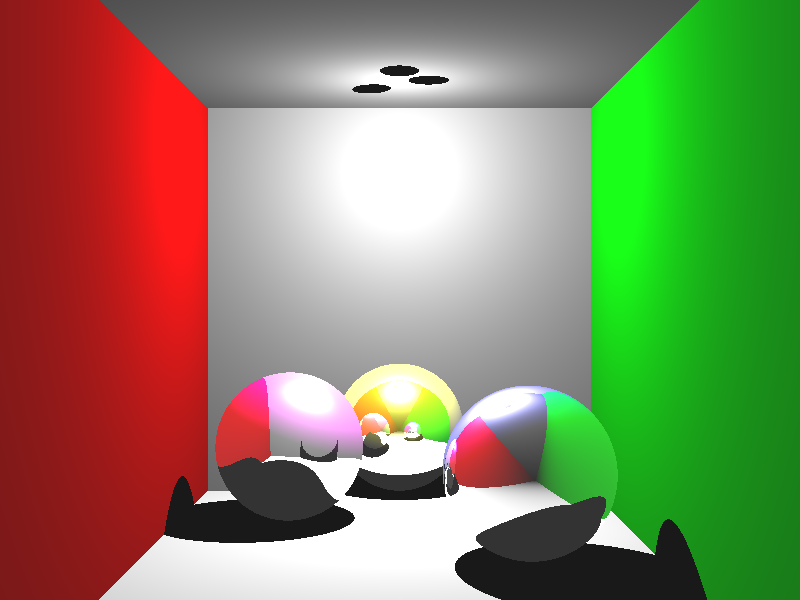
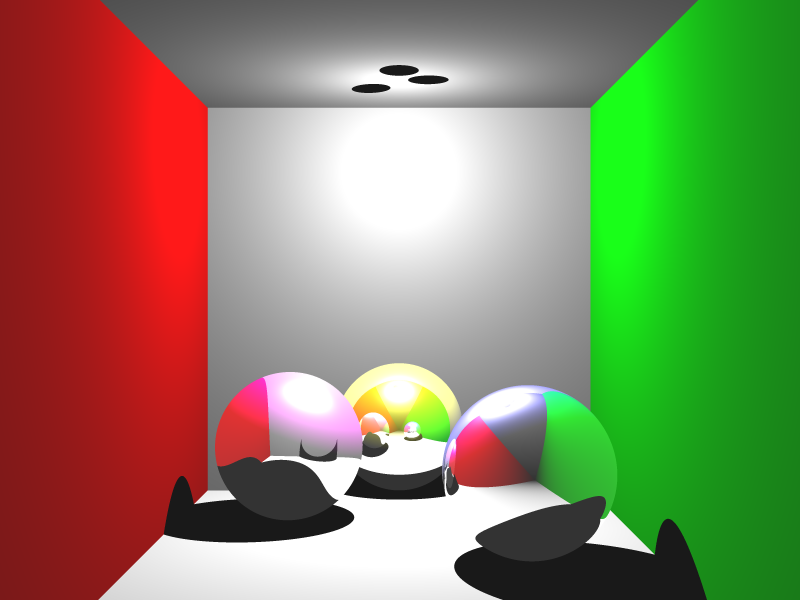
Realised AntiAliasing

Changed region(s): [[0.5312, 0.75, 0.5625, 0.81], [0.5, 0.69, 0.5312, 0.72]]

diff --git a/VCG_Raytracer/src/raytracer/Raytracer.java b/VCG_Raytracer/src/raytracer/Raytracer.java
@@ -27,6 +27,11 @@ import java.util.ArrayList;
 
 public class Raytracer {
 
+    public static int ANTI_ALIASING_LOW = 2;
+    public static int ANTI_ALIASING_MEDIUM = 4;
+    public static int ANTI_ALIASING_HIGH = 8;
+    public static int ANTI_ALIASING_INSANE = 16;
+
     private BufferedImage mBufferedImage;
     private ArrayList<Shape> mShapeList;
     private ArrayList<Light> mLightList;
@@ -34,11 +39,13 @@ public class Raytracer {
     private Window mRenderWindow;
 
     private int mMaxRecursions;
+    private float mAntiAliasingFactor;
+    private float mAntiAliasingCounter;
 
     private RgbColor mBackgroundColor;
     private RgbColor mAmbientLight;
 
-    public Raytracer(Scene scene, Window renderWindow, int recursions, RgbColor backColor, RgbColor ambientLight){
+    public Raytracer(Scene scene, Window renderWindow, int recursions, RgbColor backColor, RgbColor ambientLight, int antiAliasingSamples){
         Log.print(this, "Init");
         mMaxRecursions = recursions;
         mBufferedImage = renderWindow.getBufferedImage();
@@ -48,23 +55,41 @@ public class Raytracer {
         mRenderWindow = renderWindow;
         mShapeList = scene.getShapeList();
         mLightList = scene.getLightList();
+        mAntiAliasingFactor = 1f / (antiAliasingSamples * antiAliasingSamples);
+        mAntiAliasingCounter = 1f / antiAliasingSamples;
     }
 
     public void renderScene(){
         Log.print(this, "Start rendering");
 
-        RgbColor pixelColor;
+        Vec2 screenPosition;
         // Columns
         for (int y = 0; y < mBufferedImage.getHeight(); y++) {
             // Rows
             for (int x = 0; x < mBufferedImage.getWidth(); x++) {
-                Vec2 screenPosition = new Vec2(x, y);
-                pixelColor = sendPrimaryRay(screenPosition);
-                mRenderWindow.setPixel(mBufferedImage, pixelColor, screenPosition);
+
+                RgbColor antiAlisedColor = antiAliase(y, x);
+                screenPosition = new Vec2(x, y);
+                mRenderWindow.setPixel(mBufferedImage, antiAlisedColor, screenPosition);
             }
         }
 
         IO.saveImageToPng(mBufferedImage, "raytracing.png");
+    }
+
+    private RgbColor antiAliase(int y, int x) {
+        Vec2 screenPosition;
+        RgbColor antiAlisedColor = RgbColor.BLACK;
+        // Start super sampling x4
+        for(float i = x; i < x + 1f; i += mAntiAliasingCounter){
+            for(float j = y; j < y + 1f; j += mAntiAliasingCounter){
+
+                screenPosition = new Vec2(i, j);
+                antiAlisedColor = antiAlisedColor.add( sendPrimaryRay(screenPosition).multScalar( mAntiAliasingFactor ) );
+
+            }
+        }
+        return antiAlisedColor;
     }
 
     private RgbColor sendPrimaryRay(Vec2 pixelPoint){

diff --git a/VCG_Raytracer/src/Main.java b/VCG_Raytracer/src/Main.java
@@ -52,6 +52,8 @@ public class Main {
 
     static int RECURSIONS = 4;
 
+    static int ANTI_ALIASING = Raytracer.ANTI_ALIASING_MEDIUM;
+
     static RgbColor BACKGROUND_COLOR = RgbColor.BLACK;
 
     // Initial method. This is where the show begins.
@@ -121,7 +123,7 @@ public class Main {
     }
 
     private static void raytraceScene(Window renderWindow, Scene renderScene){
-        Raytracer raytracer = new Raytracer(renderScene, renderWindow, RECURSIONS, BACKGROUND_COLOR, AMBIENT_LIGHT);
+        Raytracer raytracer = new Raytracer(renderScene, renderWindow, RECURSIONS, BACKGROUND_COLOR, AMBIENT_LIGHT, ANTI_ALIASING);
 
         raytracer.renderScene();
     }

diff --git a/VCG_Raytracer/src/ui/Window.java b/VCG_Raytracer/src/ui/Window.java
@@ -48,10 +48,10 @@ public class Window {
         mFrame.repaint();
     }
 
-    public void setOutputLabel(String text, int recursions){
+    public void setOutputLabel(String text, int recursions, int antiAliasing){
         Graphics graphic = mBufferedImage.getGraphics();
         graphic.setColor(Color.black);
-        graphic.drawString("Elapsed rendering time: " + text + " sec, Recusions: " + recursions, 10, mHeight - 10);
+        graphic.drawString("Elapsed rendering time: " + text + " sec, Recursions: " + recursions + ", AA: x" + antiAliasing, 10, mHeight - 10);
 
         mFrame.repaint();
     }
